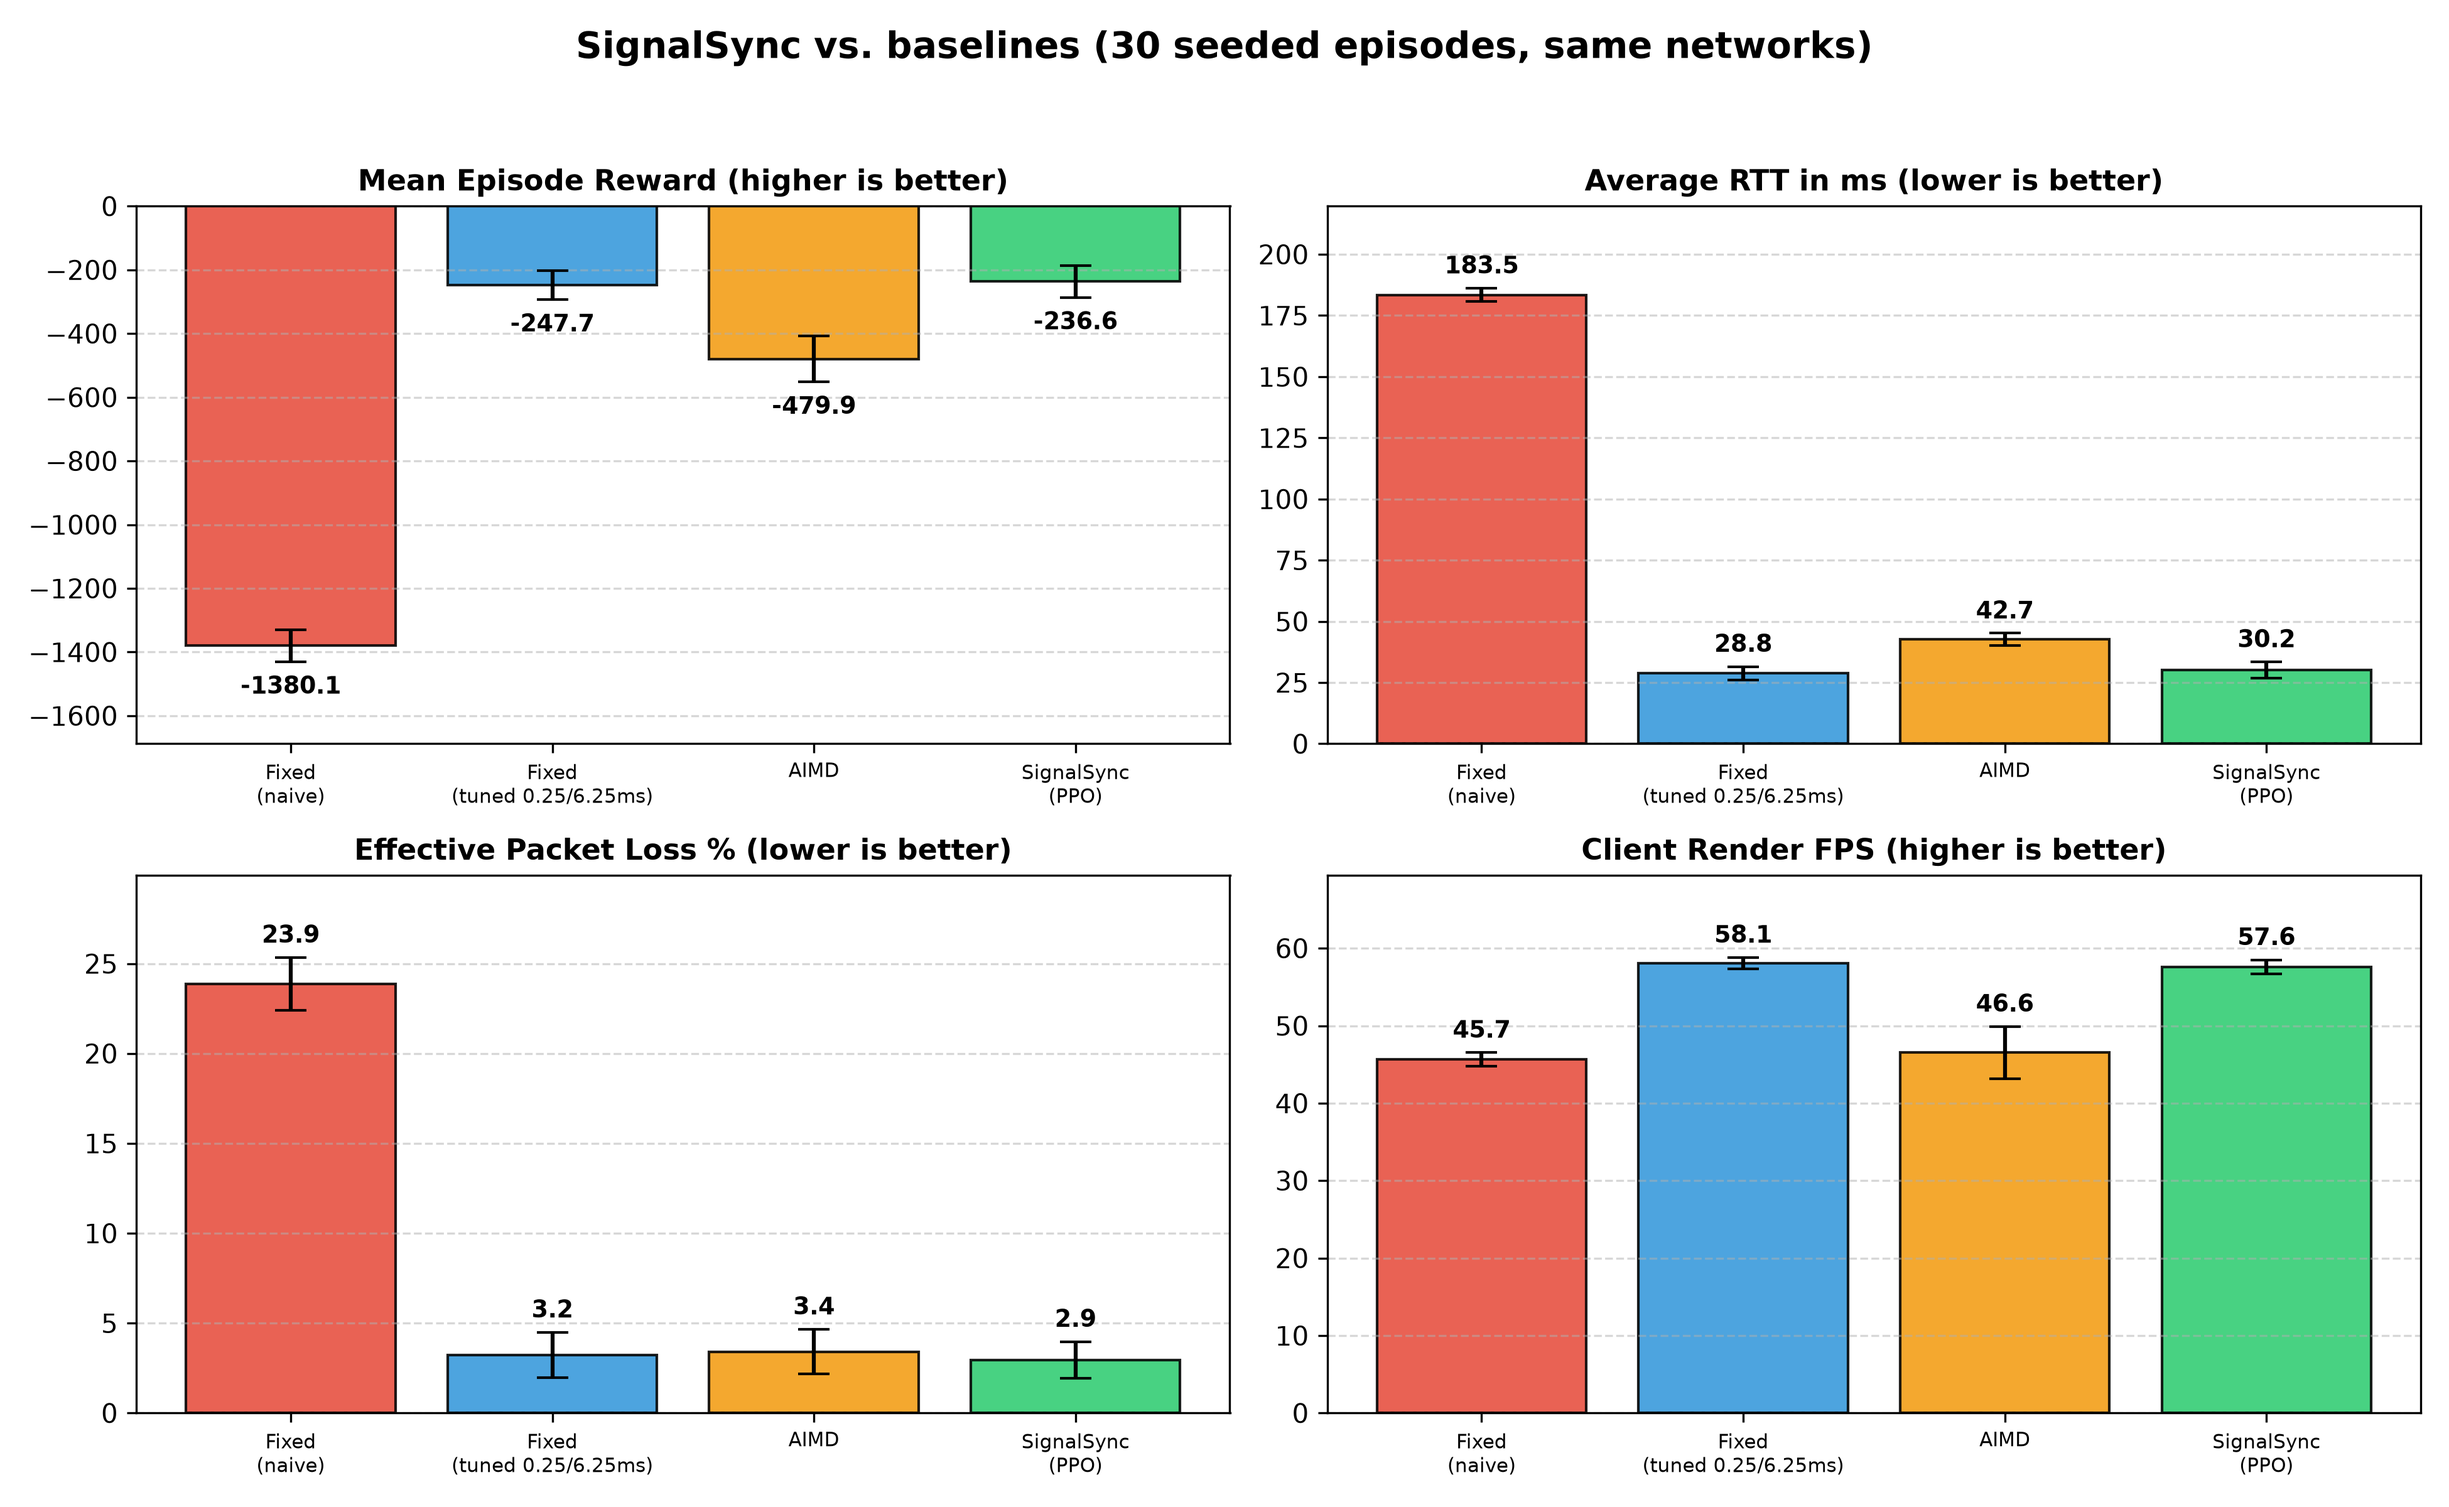
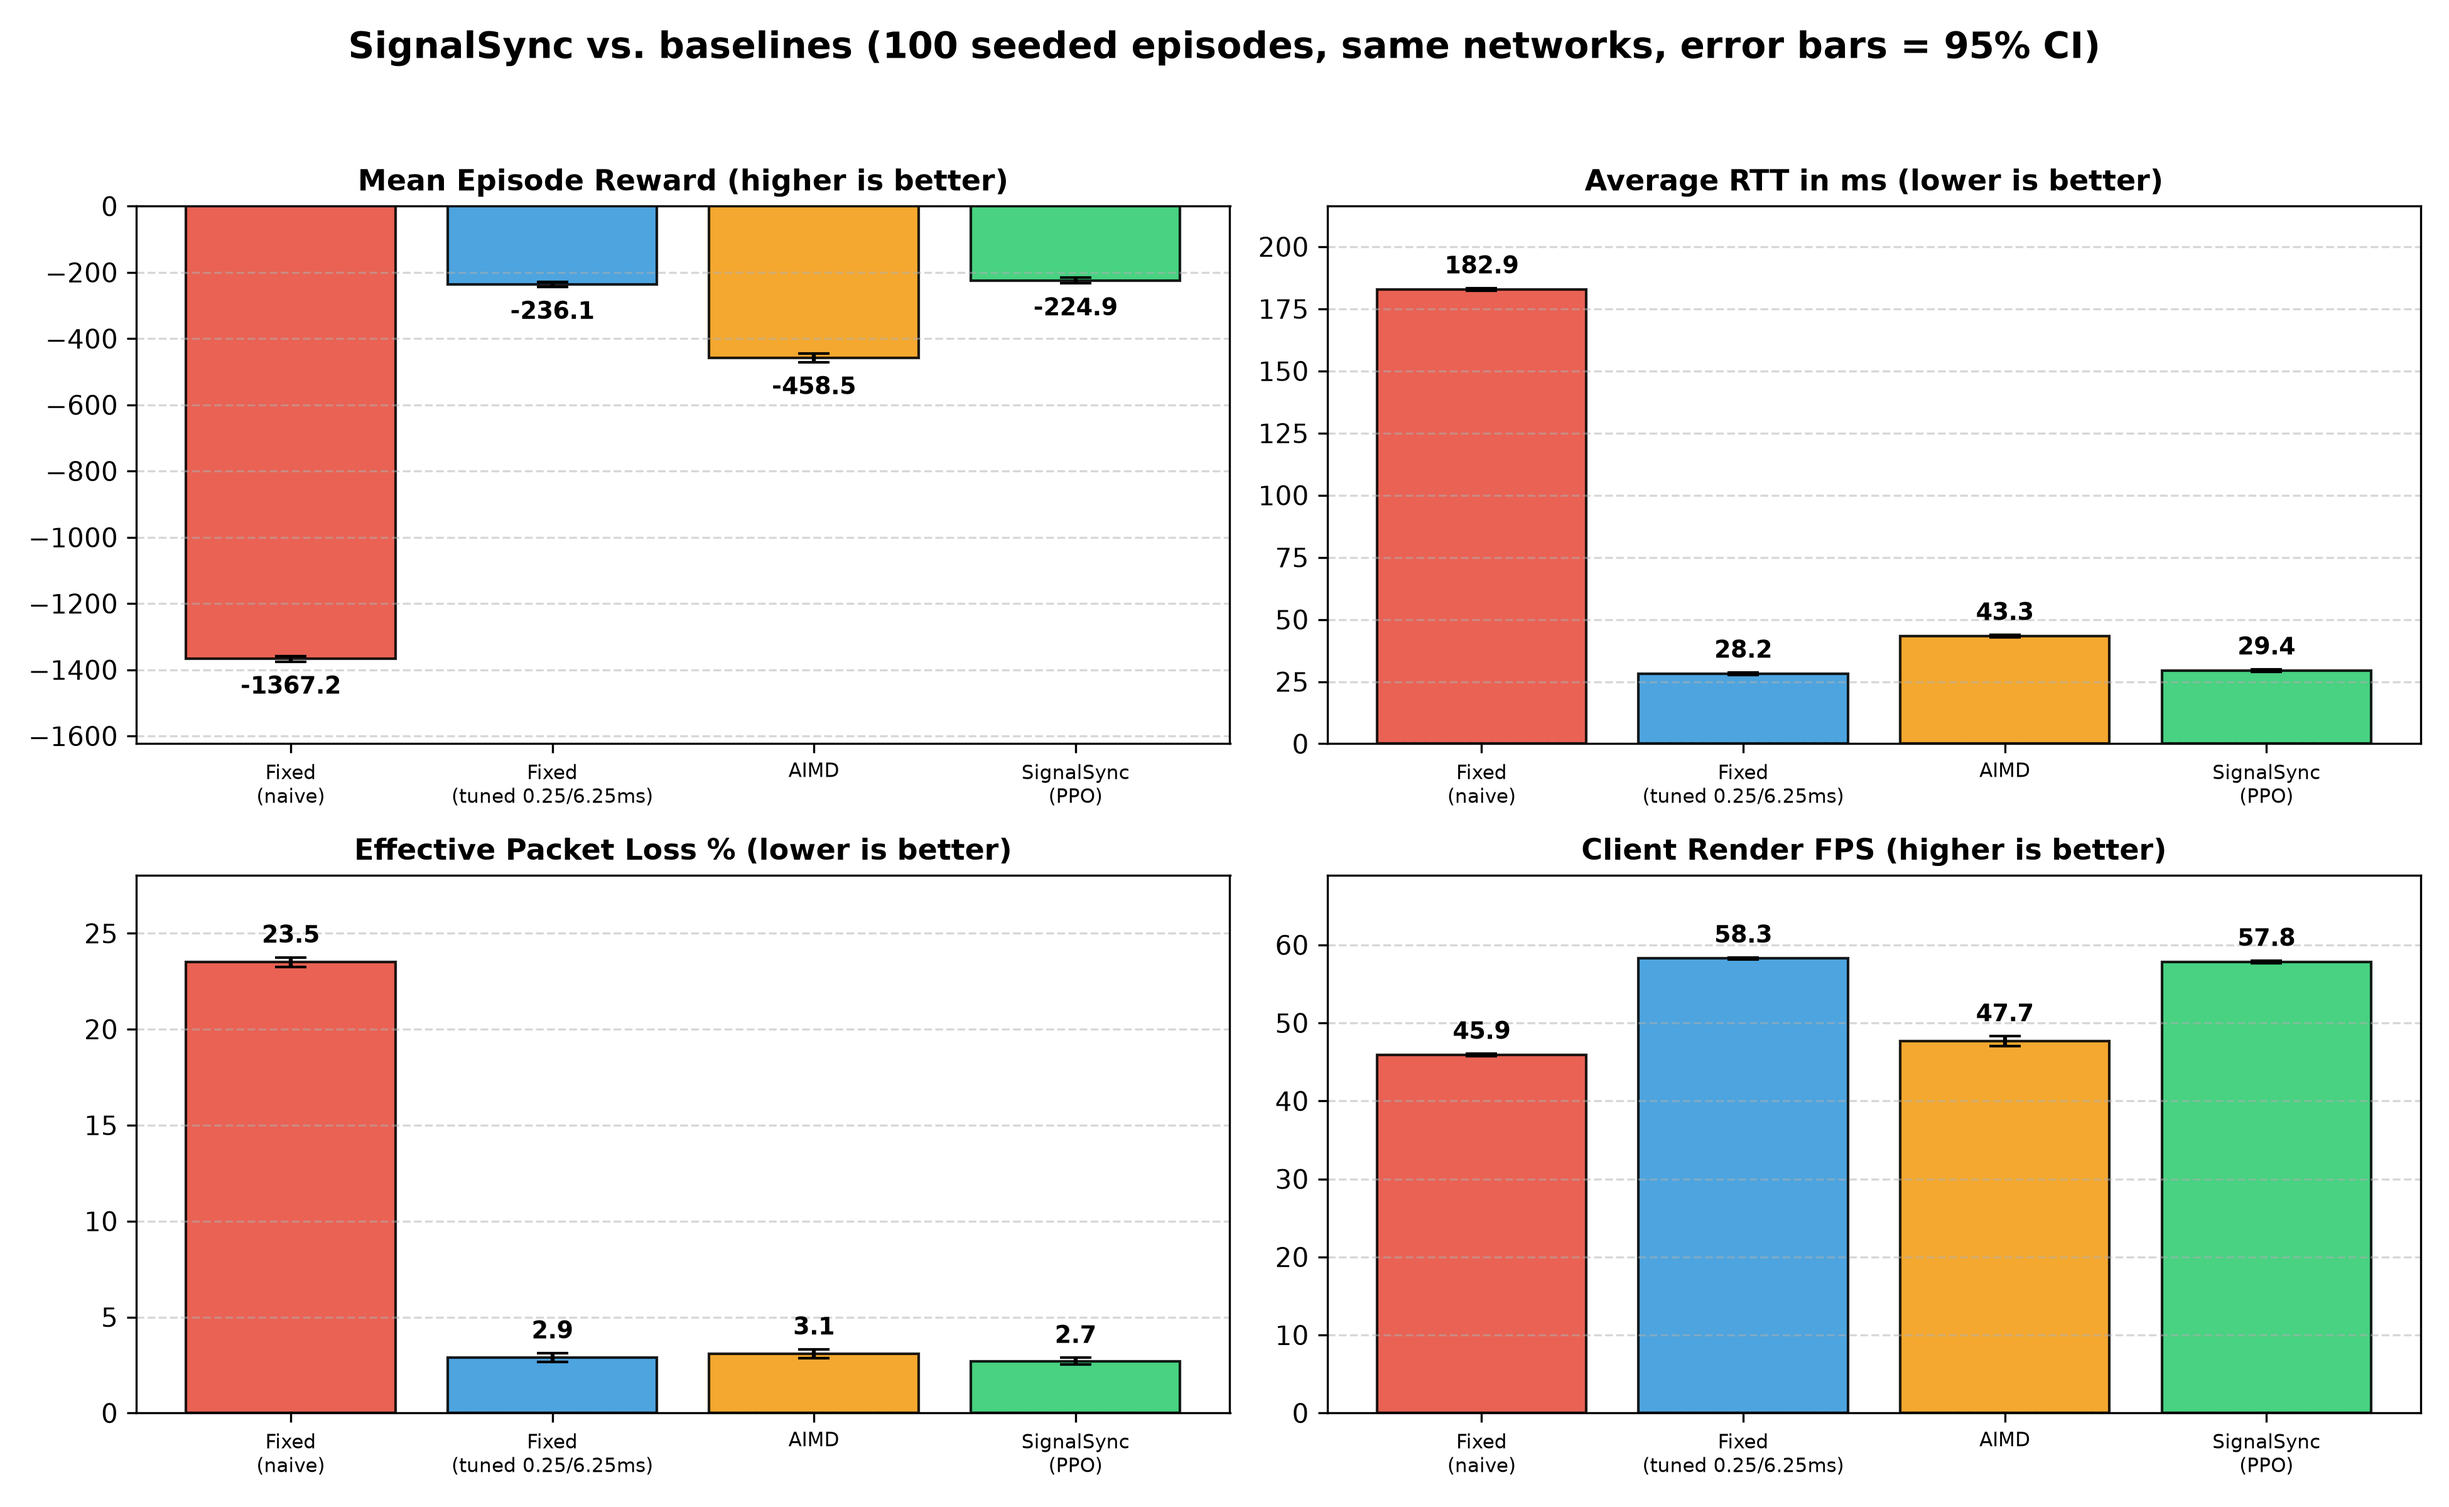
Evaluate on 100 paired episodes with 95% CIs and paired PPO-vs-tuned comparison

diff --git a/plot_results.py b/plot_results.py
@@ -74,16 +74,22 @@ def main():
     results = {n: evaluate_policy(a, is_sb3=s) for n, a, s, _ in agents}
  
     # results table for the report
-    lines = [f"{'Policy':44s} {'Reward':>16s} {'RTT ms':>9s} {'Loss %':>8s} {'FPS':>7s}"]
+    lines = [f"{'Policy':44s} {'Reward +/- 95% CI':>18s} {'RTT ms':>9s} {'Loss %':>8s} {'FPS':>7s}"]
     for n, r in results.items():
         lines.append(f"{n:44s} {r['reward'][0]:8.1f} +/- {r['reward'][1]:5.1f} "
                      f"{r['rtt'][0]:9.1f} {r['loss'][0]:8.2f} {r['fps'][0]:7.1f}")
+    if "SignalSync (PPO)" in results:
+        ref = next(n for n in results if n.startswith("Fixed (tuned"))
+        d = results["SignalSync (PPO)"]["episode_rewards"] - results[ref]["episode_rewards"]
+        se = d.std(ddof=1) / np.sqrt(len(d))
+        lines.append(f"Paired PPO minus tuned-constant reward: {d.mean():+.1f} "
+                     f"(95% CI +/-{1.96 * se:.1f}); PPO better in {(d > 0).sum()}/{len(d)} episodes")
     table = "\n".join(lines)
     print("\n" + table)
     open("results/results_table.txt", "w").write(table + "\n")
  
     fig, axes = plt.subplots(2, 2, figsize=(13, 8), dpi=300)
-    fig.suptitle(f"SignalSync vs. baselines ({len(EVAL_SEEDS)} seeded episodes, same networks)",
+    fig.suptitle(f"SignalSync vs. baselines ({len(EVAL_SEEDS)} seeded episodes, same networks, error bars = 95% CI)",
                  fontsize=14, fontweight="bold")
     cfg = [("reward", "Mean Episode Reward (higher is better)", axes[0, 0]),
            ("rtt", "Average RTT in ms (lower is better)", axes[0, 1]),

diff --git a/baselines.py b/baselines.py
@@ -8,7 +8,7 @@ from network_env import SignalSyncEnv as NetworkEnv
  
 NAIVE_FEC, NAIVE_DELAY = 0.15, 4.5
 # separate seed sets so tuning and model selection never touch the test episodes
-EVAL_SEEDS = list(range(100, 130))
+EVAL_SEEDS = list(range(100, 200))
 TUNE_SEEDS = list(range(1000, 1008))
 VAL_SEEDS = list(range(2000, 2030))
 MODEL_PATH = "models/ppo_signalsync.zip"
@@ -91,8 +91,11 @@ def run_episode(env, agent, seed, is_sb3=False):
 def evaluate_policy(agent, is_sb3=False, seeds=EVAL_SEEDS):
     env = NetworkEnv()
     eps = [run_episode(env, agent, s, is_sb3) for s in seeds]
-    return {k: (float(np.mean([e[k] for e in eps])), float(np.std([e[k] for e in eps])))
-            for k in eps[0]}
+    out = {k: (float(np.mean([e[k] for e in eps])),
+               float(1.96 * np.std([e[k] for e in eps], ddof=1) / np.sqrt(len(eps))))
+           for k in eps[0]}
+    out["episode_rewards"] = np.array([e["reward"] for e in eps])
+    return out
  
  
 # grid search over constant (fec, delay), scored on the tuning seeds only
@@ -127,7 +130,7 @@ def get_tuned_fixed(force=False):
  
 def print_result(name, res):
     print(f"[{name}] {len(EVAL_SEEDS)} seeded episodes:")
-    print(f"   Mean Episode Reward : {res['reward'][0]:.1f} +/- {res['reward'][1]:.1f}")
+    print(f"   Mean Episode Reward : {res['reward'][0]:.1f} (95% CI +/- {res['reward'][1]:.1f})")
     print(f"   Avg RTT             : {res['rtt'][0]:.1f} ms")
     print(f"   Avg Effective Loss  : {res['loss'][0]:.2f} %")
     print(f"   Avg Render FPS      : {res['fps'][0]:.1f}\n")
